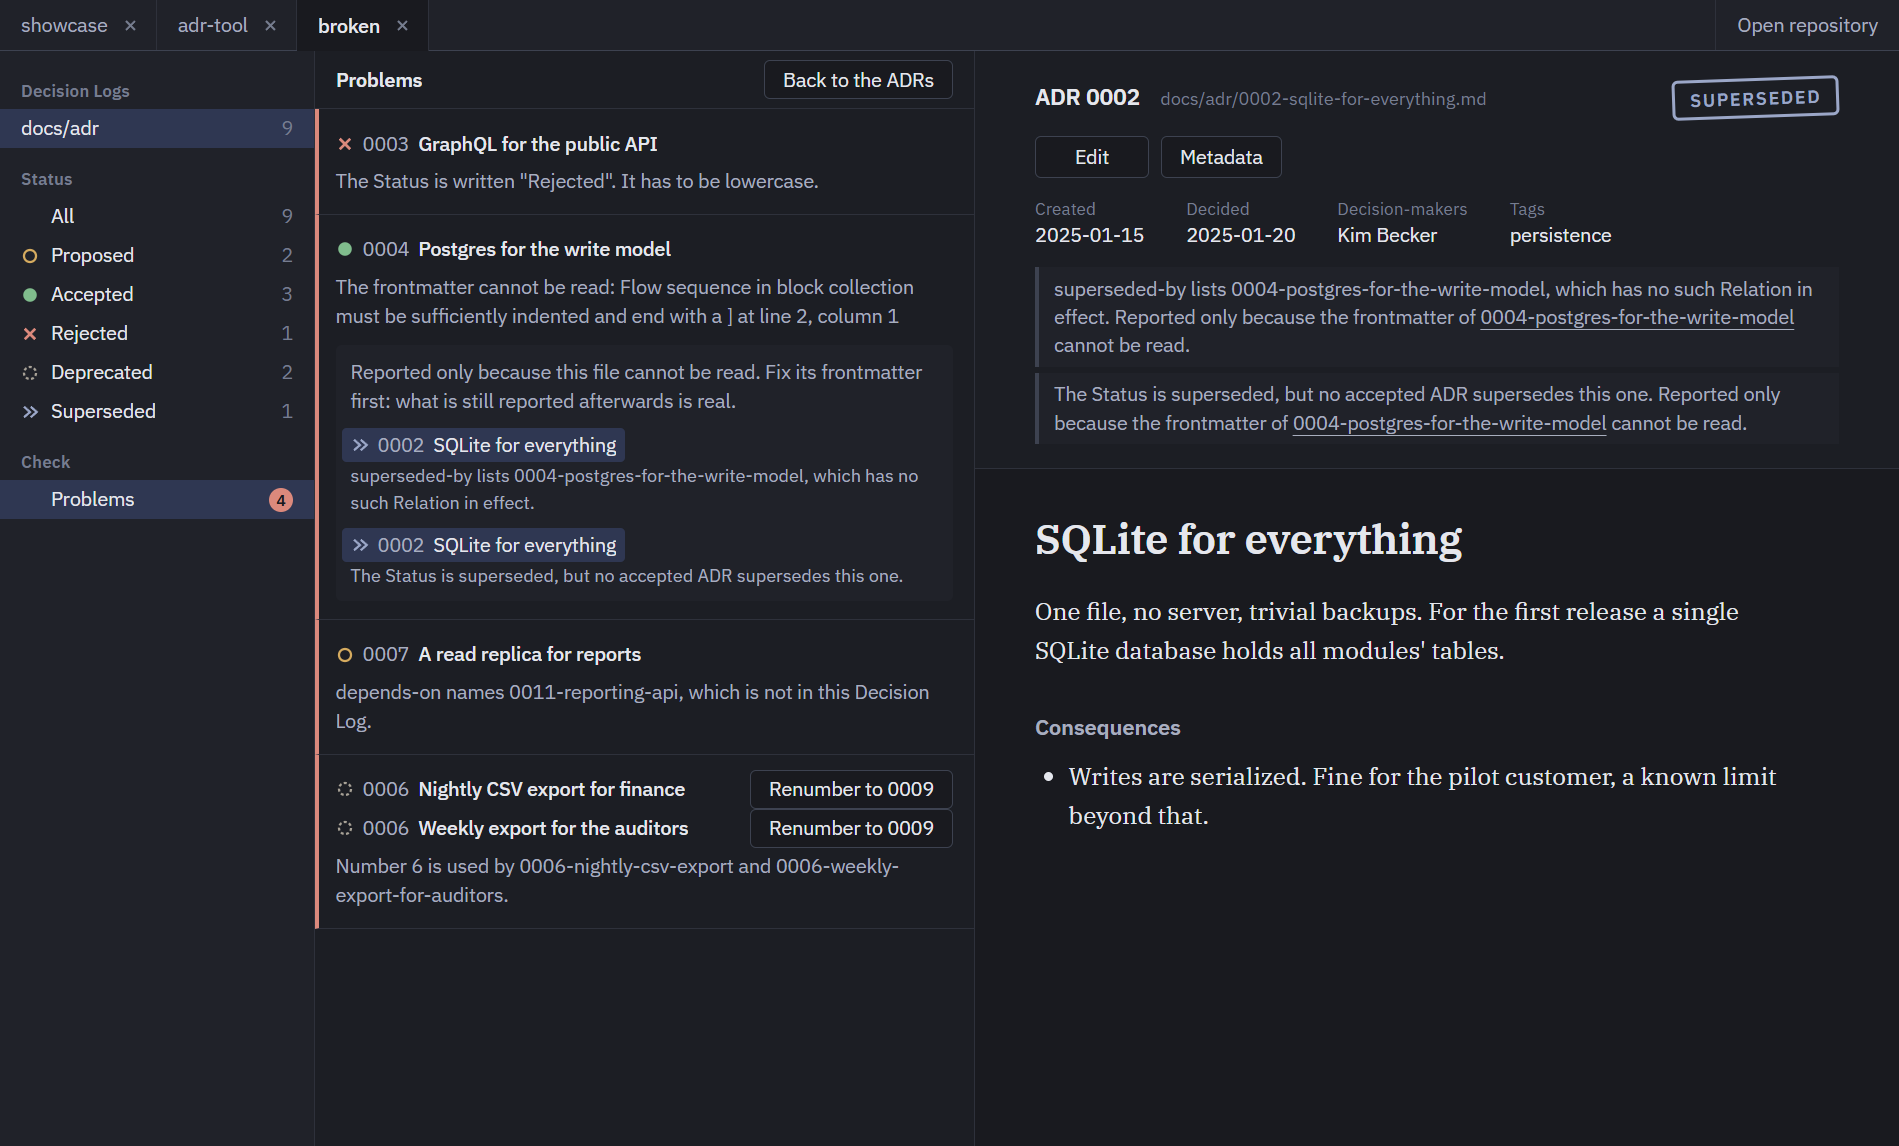
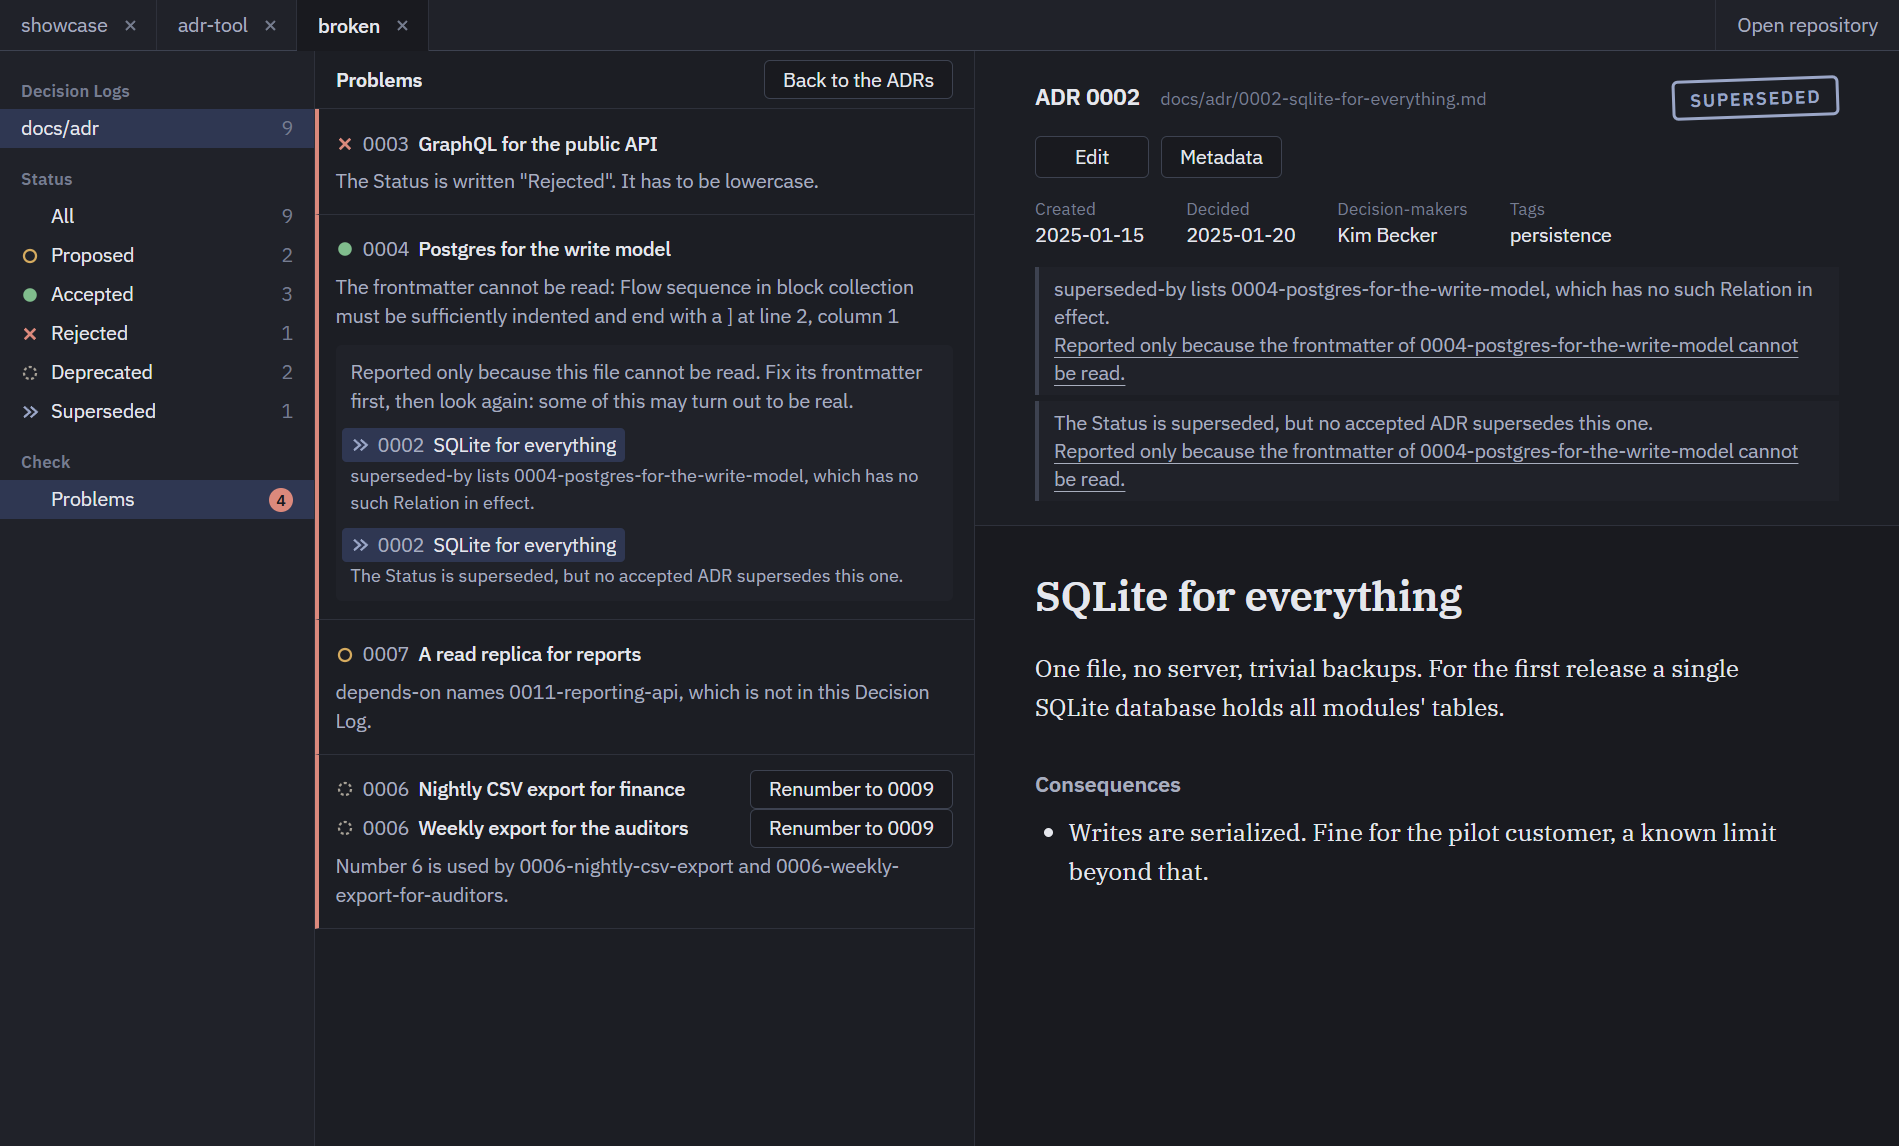
After review: the wording of consequences lives in wording.ts; grouping reads its roots once

diff --git a/packages/core/src/problems/group.ts b/packages/core/src/problems/group.ts
@@ -22,28 +22,8 @@ export function groupProblems(log: {
   readonly adrs: readonly Adr[]
   readonly problems: readonly Problem[]
 }): ProblemGroup[] {
-  const unreadable = log.adrs.filter((adr) => !adr.metadataWritable).map((adr) => adr.id)
-  const byId = new Map(log.adrs.map((adr) => [adr.id, adr]))
-
-  const causeOf = (problem: Problem): string | undefined => {
-    switch (problem.kind) {
-      case 'missing-back-reference':
-      case 'not-marked-superseded':
-        // Reported on an ADR whose Back-references and Status could not be read.
-        return unreadable.find((id) => id === problem.adr)
-      case 'unfounded-back-reference':
-        // The Relation behind the Back-reference may well be there, in a file that cannot be read.
-        return unreadable.find((id) => id === problem.source)
-      case 'superseded-without-successor': {
-        const named = byId.get(problem.adr)?.metadata.backReferences['superseded-by'] ?? []
-        return unreadable.find((id) => named.includes(id))
-      }
-      default:
-        return undefined
-    }
-  }
-
   const groups = log.problems.map((problem) => ({ problem, consequences: [] as Problem[] }))
+  // The unreadable ADRs are the ones a root cause is reported on.
   const roots = new Map(
     groups.flatMap((group) =>
       group.problem.kind === 'invalid-frontmatter' ||
@@ -52,10 +32,31 @@ export function groupProblems(log: {
         : []
     )
   )
-  return groups.filter((group) => {
+  const byId = new Map(log.adrs.map((adr) => [adr.id, adr]))
+
+  const causeOf = (problem: Problem): string | undefined => {
+    switch (problem.kind) {
+      case 'missing-back-reference':
+      case 'not-marked-superseded':
+        // Reported on an ADR whose Back-references and Status could not be read.
+        return roots.has(problem.adr) ? problem.adr : undefined
+      case 'unfounded-back-reference':
+        // The Relation behind the Back-reference may well be there, in a file that cannot be read.
+        return roots.has(problem.source) ? problem.source : undefined
+      case 'superseded-without-successor': {
+        const named = byId.get(problem.adr)?.metadata.backReferences['superseded-by'] ?? []
+        return named.find((id) => roots.has(id))
+      }
+      default:
+        return undefined
+    }
+  }
+
+  const shown: ProblemGroup[] = []
+  for (const group of groups) {
     const cause = causeOf(group.problem)
-    const root = cause === undefined ? undefined : roots.get(cause)
-    root?.consequences.push(group.problem)
-    return root === undefined
-  })
+    if (cause === undefined) shown.push(group)
+    else roots.get(cause)!.consequences.push(group.problem)
+  }
+  return shown
 }

diff --git a/packages/app/src/renderer/src/components/ProblemsList.svelte b/packages/app/src/renderer/src/components/ProblemsList.svelte
@@ -2,7 +2,7 @@
   import { nextPrefix, type Adr, type Problem } from '@adr-tool/core'
   import { adrsOf } from '../lib/problems'
   import { app, statusKey } from '../lib/state.svelte'
-  import { describeProblem, prefixOf } from '../lib/wording'
+  import { CONSEQUENCES_LEAD, describeProblem, prefixOf } from '../lib/wording'
   import StatusMark from './StatusMark.svelte'
 
   const selectedId = $derived(app.selected?.id)
@@ -36,7 +36,7 @@
           {#each subjects(problem) as adr (adr.id)}
             <div class="subject">
               {@render subject(adr)}
-              {#if problem.kind === 'duplicate-number' && app.log && !app.editing}
+              {#if problem.kind === 'duplicate-number' && app.log && app.editing?.adrId !== adr.id}
                 <!-- Which of them moves is the person's choice. -->
                 <button class="repair" onclick={() => app.renumber(adr.id)}>
                   Renumber to {nextPrefix(app.log, '')}
@@ -48,15 +48,13 @@
 
           {#if consequences.length > 0}
             <div class="consequences">
-              <p>
-                Reported only because this file cannot be read. Fix its frontmatter first: what is
-                still reported afterwards is real.
-              </p>
+              <p>{CONSEQUENCES_LEAD}</p>
               <ul>
                 {#each consequences as consequence, index (index)}
                   <li>
+                    <!-- What is reported on the unreadable ADR itself needs no second heading. -->
                     {#each subjects(consequence) as adr (adr.id)}
-                      {@render subject(adr)}
+                      {#if !adrsOf(problem).includes(adr.id)}{@render subject(adr)}{/if}
                     {/each}
                     <span class="what">{describeProblem(consequence)}</span>
                   </li>

diff --git a/packages/app/src/renderer/src/components/AdrDetail.svelte b/packages/app/src/renderer/src/components/AdrDetail.svelte
@@ -3,7 +3,13 @@
   import type { Decision } from '../../../shared/ipc'
   import { problemsOf } from '../lib/problems'
   import { DECISION_LABEL, app, statusKey } from '../lib/state.svelte'
-  import { STATUS_LABEL, describeProblem, prefixOf, relationLabel } from '../lib/wording'
+  import {
+    STATUS_LABEL,
+    describeCause,
+    describeProblem,
+    prefixOf,
+    relationLabel
+  } from '../lib/wording'
   import BodyEditor from './BodyEditor.svelte'
   import MarkdownDocument from './MarkdownDocument.svelte'
   import StatusMark from './StatusMark.svelte'
@@ -130,10 +136,8 @@
           <li class:follows={cause !== undefined}>
             {describeProblem(problem)}
             {#if cause !== undefined}
-              <span class="cause">
-                Reported only because the frontmatter of
-                <button onclick={() => app.select(cause)}>{cause}</button> cannot be read.
-              </span>
+              <button class="cause" onclick={() => app.select(cause)}>{describeCause(cause)}</button
+              >
             {/if}
             {#if problem.kind === 'duplicate-number' && !editing}
               <!-- The repair of this Problem: one of the two moves, and the person says which. -->
@@ -309,8 +313,10 @@
     color: var(--ink-soft);
   }
 
-  .problems .cause button {
+  .problems .cause {
+    display: inline;
     margin: 0;
+    text-align: left;
     padding: 0;
     border: 0;
     background: none;

diff --git a/packages/app/src/renderer/src/lib/wording.ts b/packages/app/src/renderer/src/lib/wording.ts
@@ -65,6 +65,15 @@ export function prefixOf(adr: Adr): string {
   return `${digits.slice(0, 4)}-${digits.slice(4, 6)}-${digits.slice(6)}`
 }
 
+/** Above the Problems that are listed under an ADR whose frontmatter cannot be read. */
+export const CONSEQUENCES_LEAD =
+  'Reported only because this file cannot be read. Fix its frontmatter first, then look again: some of this may turn out to be real.'
+
+/** Next to a Problem on one ADR that is only reported because of another ADR's broken file. */
+export function describeCause(cause: string): string {
+  return `Reported only because the frontmatter of ${cause} cannot be read.`
+}
+
 export function describeProblem(problem: Problem): string {
   switch (problem.kind) {
     case 'unterminated-frontmatter':

diff --git a/packages/app/src/renderer/src/lib/problems.ts b/packages/app/src/renderer/src/lib/problems.ts
@@ -6,14 +6,14 @@ export function adrsOf(problem: Problem): readonly string[] {
 }
 
 /** A Problem as one ADR shows it. */
-export interface OwnProblem {
+export interface ReportedProblem {
   problem: Problem
   /** The ADR whose unreadable frontmatter is the only reason this is reported. */
   cause?: string
 }
 
 /** The Problems reported on this ADR. What merely follows from another ADR's broken file says so. */
-export function problemsOf(groups: readonly ProblemGroup[], id: string): OwnProblem[] {
+export function problemsOf(groups: readonly ProblemGroup[], id: string): ReportedProblem[] {
   return groups.flatMap(({ problem, consequences }) => {
     const [cause] = adrsOf(problem)
     return [

diff --git a/docs/plan.md b/docs/plan.md
@@ -119,7 +119,7 @@ One broken file must not drown the view: when an ADR's frontmatter cannot be rea
 
 *Status (2026-09-19):* in progress, in five parts: the Problems view, its repairs, git read-only, search, the Relations graph.
 
-Part 1: the Problems view. The sidebar counts the Problems of the Decision Log in view; the view lists each one with the ADRs it is reported on, and the one repair that exists so far — Renumber — sits next to the ADR it would move. Root causes are `core`'s business (`groupProblems`): an ADR whose frontmatter cannot be read is read as if it had none, so a missing or unfounded Back-reference, a `superseded` Status without a successor or one that is not set, reported between it and another ADR, is shown under the unreadable file and not counted. The other ADR's detail still shows such a Problem, and says which file it follows from. A duplicate number is never a consequence: the file name carries the number.
+Part 1: the Problems view. The sidebar counts the Problems of the Decision Log in view; the view lists each one with the ADRs it is reported on, and the one repair that exists so far — Renumber — sits next to the ADR it would move. Root causes are `core`'s business (`groupProblems`): an ADR whose frontmatter cannot be read is read as if it had none, so a missing or unfounded Back-reference, a `superseded` Status without a successor or one that is not set, reported between it and another ADR, is shown under the unreadable file and not counted. The other ADR's detail still shows such a Problem, and says which file it follows from. A duplicate number is never a consequence: the file name carries the number. Known gap: grouping is about frontmatter that cannot be read at all. A file that can be read but has a Status outside the five values voids its Relations, and what that causes on other ADRs is still listed Problem by Problem.
 
 ### M5 — Foreign formats
 
